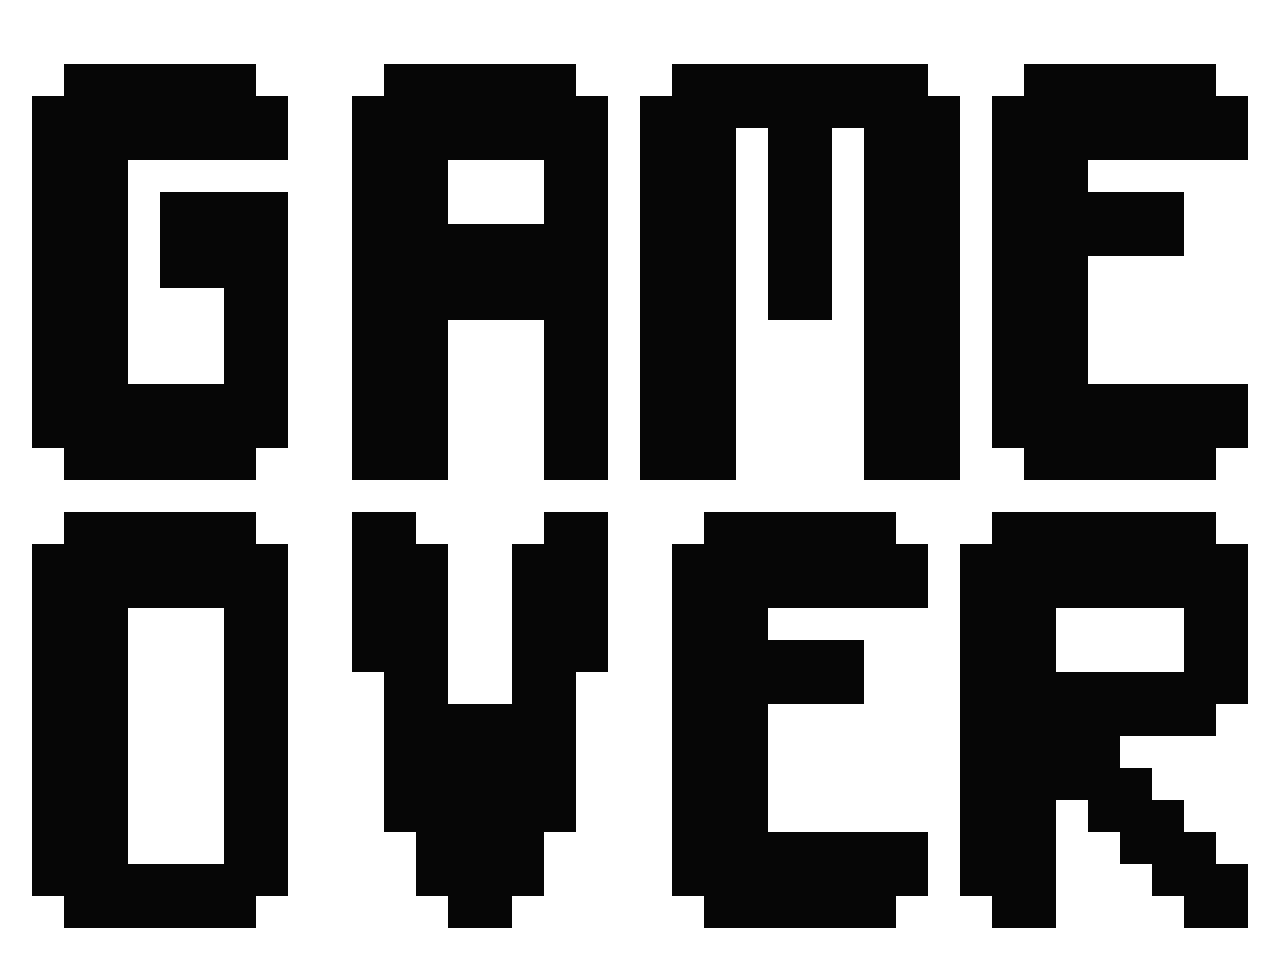
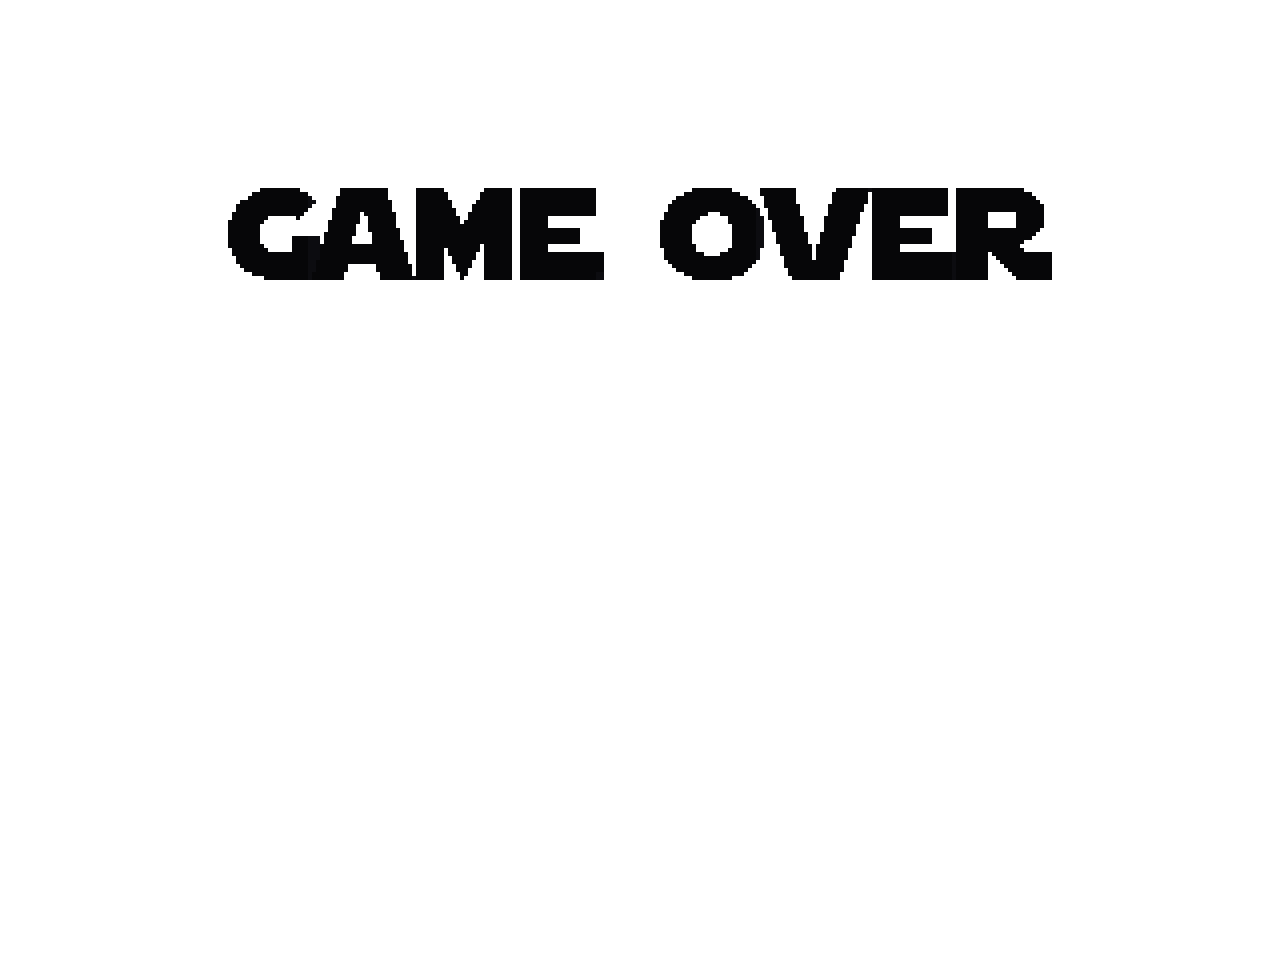
Gameover overhaul
- added more assets to get a better game over screen
- overhauled the gameover.draw() function

diff --git a/scripts/gameover.py b/scripts/gameover.py
@@ -11,23 +11,44 @@ class GameOver:
             self.path = os.path.join("assets", "Gameover.png")
         elif os.name == "posix":
             try:
-                self.path = os.path.join("..", "assets", "Gameover.png")
+                self.path_game_over = os.path.join("..", "assets", "Gameover.png")
+                self.path_score = os.path.join("..", "assets", "Score.png")
+                self.path_press_space = os.path.join("..", "assets", "PressSpace.png")
+                self.path_press_a = os.path.join("..", "assets", "PressA.png")
             except FileNotFoundError:
                 try:
                     self.path = os.path.join("assets", "Gameover.png")
                 except FileNotFoundError:
                     print("File Gameover.png could not be loaded. Exiting.")
                     sys.exit()
-        self.image = pygame.image.load(self.path)
-        self.rect = self.image.get_rect()
+        self.image_game_over = pygame.image.load(self.path_game_over)
+        self.image_score = pygame.image.load(self.path_score)
+        self.image_press_space = pygame.image.load(self.path_press_space)
+        self.image_press_a = pygame.image.load(self.path_press_a)
+        self.rect = self.image_game_over.get_rect()
         self.game_over = False
+        self.curtain = 0
+        self.curtainRect = pygame.Rect((0, 0), (1280, 0))
+        self.timer = 0
 
     def set_game_over(self):
         self.game_over = True
-    
+
     def reset(self):
         self.game_over = False
 
     def draw(self, screen: pygame.Surface):
         if self.game_over:
-            screen.blit(self.image, self.rect)
+            if self.curtain < 970:
+                self.curtainRect = pygame.Rect((0, 0), (1280, self.curtain))
+                self.curtain += 10
+            pygame.draw.rect(screen, "black", self.curtainRect)
+            if self.curtain > 960:
+                screen.blit(self.image_game_over, self.rect)
+                self.timer += 1
+                if self.timer > 10:
+                    screen.blit(self.image_score, self.image_score.get_rect())
+                if self.timer > 20 and (self.timer // 10) % 2 == 0:
+                    screen.blit(
+                        self.image_press_space, self.image_press_space.get_rect()
+                    )
